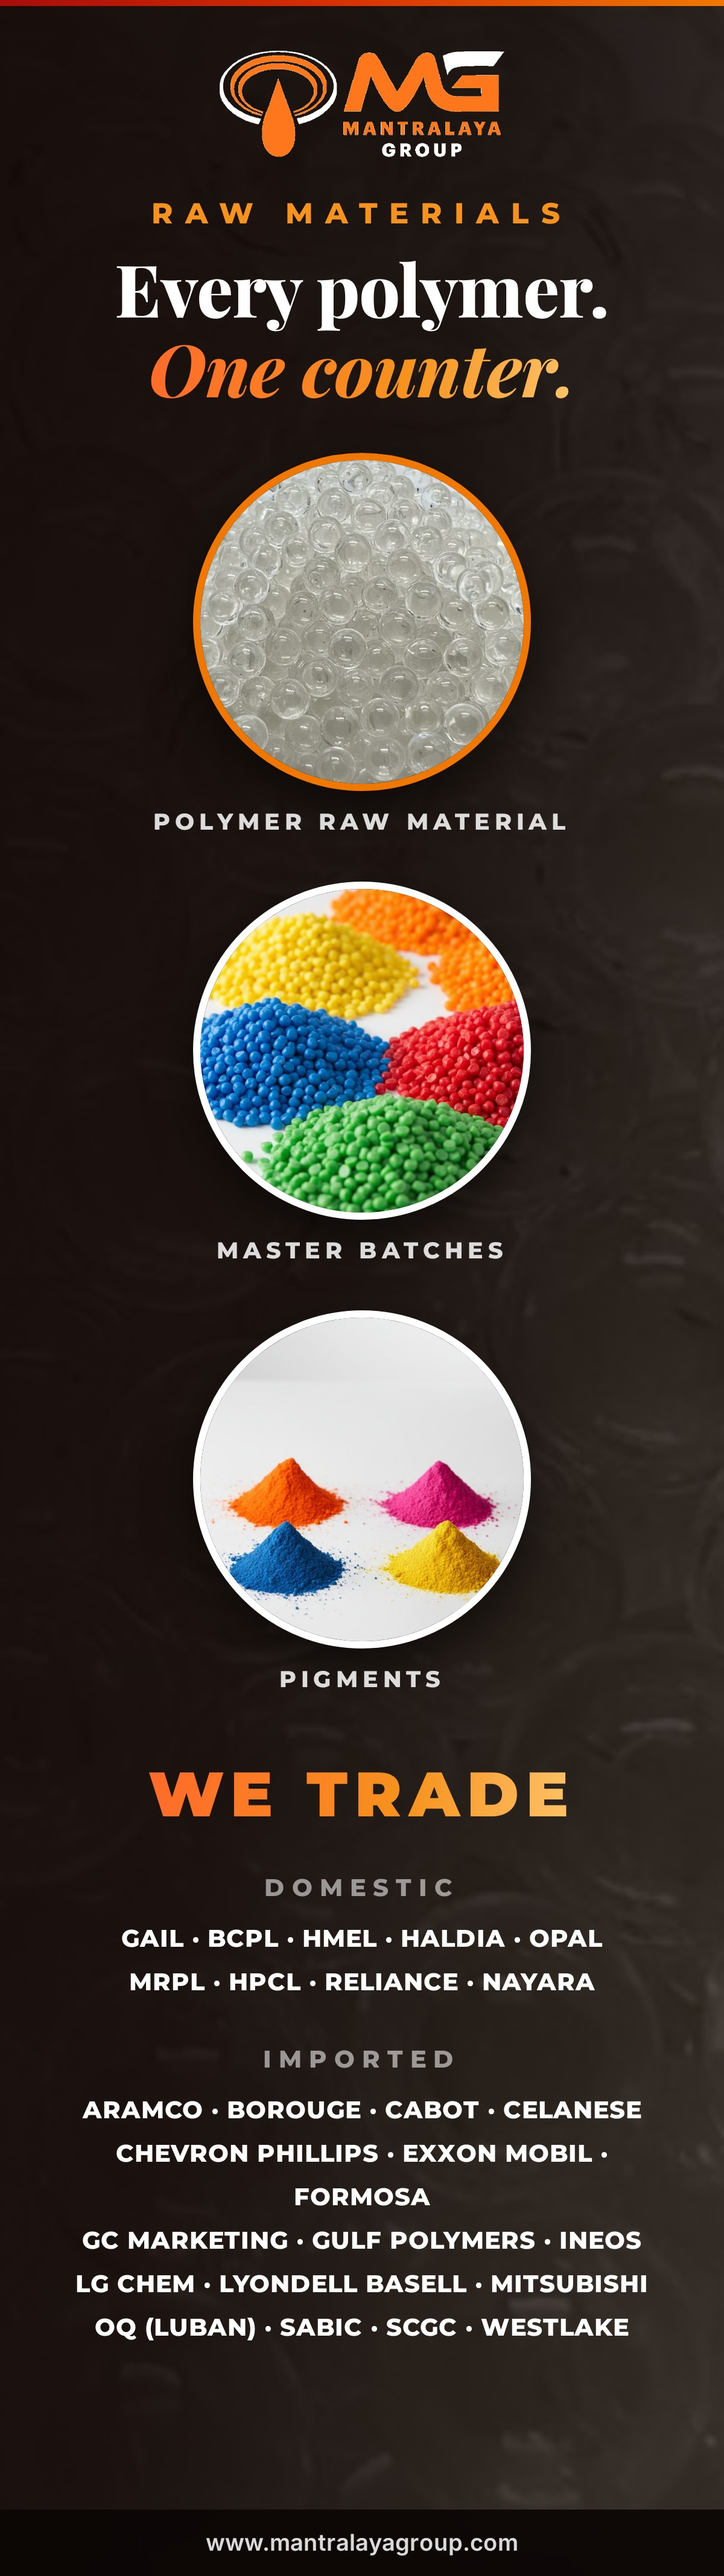
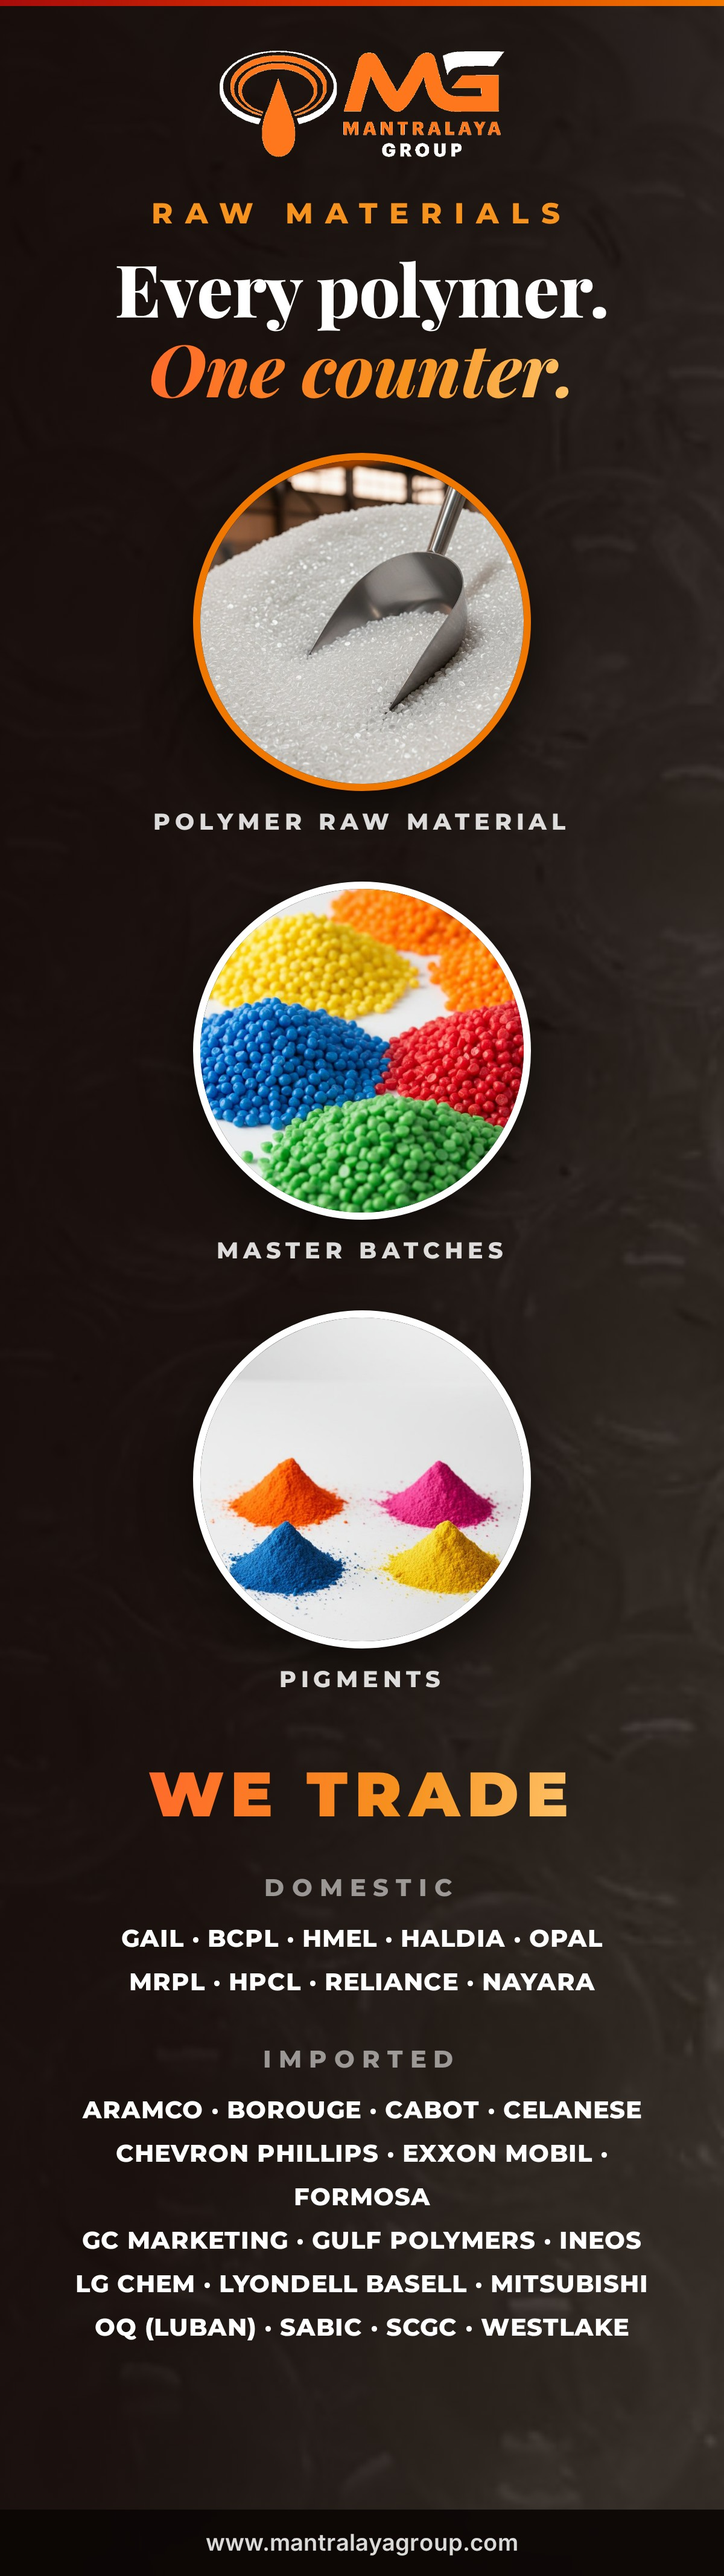
Totem: polymer raw material circle uses PP granules photo

Changed region(s): [[0.2775, 0.1559, 0.7092, 0.3118]]

diff --git a/posters/src/poster-12-totem--dark.html b/posters/src/poster-12-totem--dark.html
@@ -32,7 +32,7 @@ body{width:600px;height:2133px;overflow:hidden;position:relative;font-family:'Mo
 <div class="wrap"><img class="lg" src="../../mg-logo-dark.png">
 <div class="label2">RAW MATERIALS</div>
 <div class="cap cap2">Every polymer.<br><em>One counter.</em></div>
-<div class="tw"><div class="tt"><img src="../../products/natural-granules.jpg"></div><div class="tl">POLYMER RAW MATERIAL</div></div><div class="tw"><div class="tt"><img src="../../products/coloured-granules.jpg"></div><div class="tl">MASTER BATCHES</div></div><div class="tw"><div class="tt"><img src="../../products/pigments.jpg"></div><div class="tl">PIGMENTS</div></div>
+<div class="tw"><div class="tt"><img src="../../products/pp-granules-hero.jpg"></div><div class="tl">POLYMER RAW MATERIAL</div></div><div class="tw"><div class="tt"><img src="../../products/coloured-granules.jpg"></div><div class="tl">MASTER BATCHES</div></div><div class="tw"><div class="tt"><img src="../../products/pigments.jpg"></div><div class="tl">PIGMENTS</div></div>
 <div class="wetrade">WE TRADE</div>
 <div class="sec">DOMESTIC</div><div class="bl">GAIL · BCPL · HMEL · HALDIA · OPAL<br>MRPL · HPCL · RELIANCE · NAYARA</div>
 <div class="sec">IMPORTED</div><div class="bl">ARAMCO · BOROUGE · CABOT · CELANESE<br>CHEVRON PHILLIPS · EXXON MOBIL · FORMOSA<br>GC MARKETING · GULF POLYMERS · INEOS<br>LG CHEM · LYONDELL BASELL · MITSUBISHI<br>OQ (LUBAN) · SABIC · SCGC · WESTLAKE</div>

diff --git a/posters/src/poster-12-totem--light.html b/posters/src/poster-12-totem--light.html
@@ -32,7 +32,7 @@ body{width:600px;height:2133px;overflow:hidden;position:relative;font-family:'Mo
 <div class="wrap"><img class="lg" src="../../mg-logo.png">
 <div class="label2">RAW MATERIALS</div>
 <div class="cap cap2">Every polymer.<br><em>One counter.</em></div>
-<div class="tw"><div class="tt"><img src="../../products/natural-granules.jpg"></div><div class="tl">POLYMER RAW MATERIAL</div></div><div class="tw"><div class="tt"><img src="../../products/coloured-granules.jpg"></div><div class="tl">MASTER BATCHES</div></div><div class="tw"><div class="tt"><img src="../../products/pigments.jpg"></div><div class="tl">PIGMENTS</div></div>
+<div class="tw"><div class="tt"><img src="../../products/pp-granules-hero.jpg"></div><div class="tl">POLYMER RAW MATERIAL</div></div><div class="tw"><div class="tt"><img src="../../products/coloured-granules.jpg"></div><div class="tl">MASTER BATCHES</div></div><div class="tw"><div class="tt"><img src="../../products/pigments.jpg"></div><div class="tl">PIGMENTS</div></div>
 <div class="wetrade">WE TRADE</div>
 <div class="sec">DOMESTIC</div><div class="bl">GAIL · BCPL · HMEL · HALDIA · OPAL<br>MRPL · HPCL · RELIANCE · NAYARA</div>
 <div class="sec">IMPORTED</div><div class="bl">ARAMCO · BOROUGE · CABOT · CELANESE<br>CHEVRON PHILLIPS · EXXON MOBIL · FORMOSA<br>GC MARKETING · GULF POLYMERS · INEOS<br>LG CHEM · LYONDELL BASELL · MITSUBISHI<br>OQ (LUBAN) · SABIC · SCGC · WESTLAKE</div>

diff --git a/posters/gen2.py b/posters/gen2.py
@@ -126,7 +126,7 @@ def totem(w,h,dark):
     brands_d = 'GAIL · BCPL · HMEL · HALDIA · OPAL<br>MRPL · HPCL · RELIANCE · NAYARA'
     brands_i = 'ARAMCO · BOROUGE · CABOT · CELANESE<br>CHEVRON PHILLIPS · EXXON MOBIL · FORMOSA<br>GC MARKETING · GULF POLYMERS · INEOS<br>LG CHEM · LYONDELL BASELL · MITSUBISHI<br>OQ (LUBAN) · SABIC · SCGC · WESTLAKE'
     tiles = ''.join(f'<div class="tw"><div class="tt"><img src="{P(p)}"></div><div class="tl">{l}</div></div>'
-                    for p,l in [('natural-granules','POLYMER RAW MATERIAL'),('coloured-granules','MASTER BATCHES'),('pigments','PIGMENTS')])
+                    for p,l in [('pp-granules-hero','POLYMER RAW MATERIAL'),('coloured-granules','MASTER BATCHES'),('pigments','PIGMENTS')])
     logo = '../../mg-logo-dark.png' if dark else '../../mg-logo.png'
     return base(w,h,dark)+f"""<style>
 .wrap{{flex:1;display:flex;flex-direction:column;align-items:center;text-align:center;padding:40px 40px 0;position:relative;z-index:4}}
